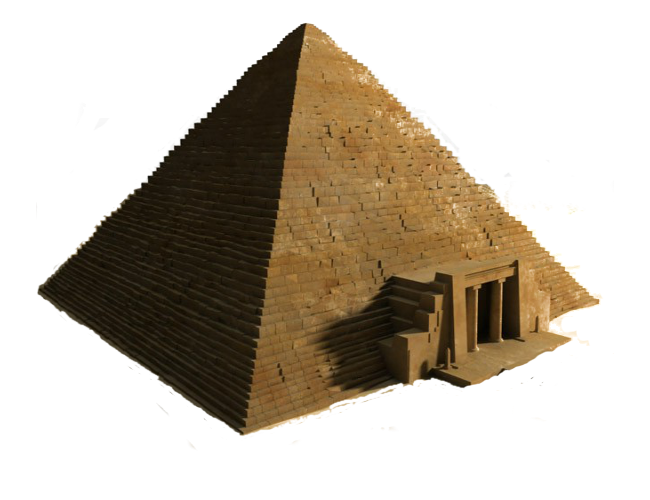
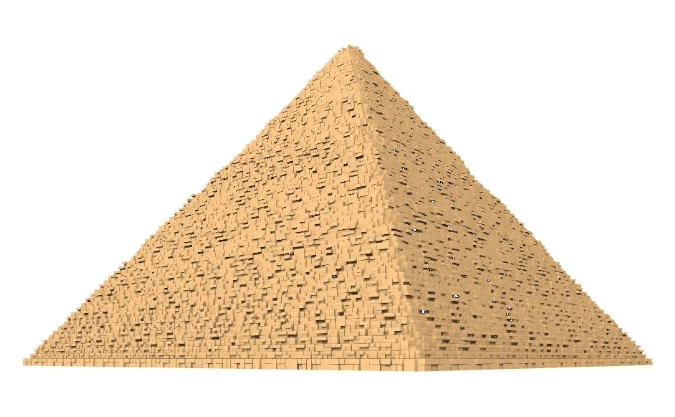
improving Desert Map

diff --git a/src/MapPanel.java b/src/MapPanel.java
@@ -31,12 +31,12 @@ public class MapPanel extends JPanel {
 		_floor = new Img("images\\Desert\\SandFloor.jpg", 0, 0, 50, 50);
 		_rock = new Img("images\\Desert\\rock.png", 0, 0, 150, 150);
 		_water = new Img("images\\Desert\\water.jpg", 0, 0, 50, 50);
-		_pyramid = new Img("images\\Desert\\pyramid.png", 0, 0, 300, 300);
+		_pyramid = new Img("images\\Desert\\pyramid2.png", 0, 0, 300, 300);
 		_sphinx = new Img("images\\Desert\\sphinx.png", 0, 0, 200, 200);
-		_gate = new Img("images\\Desert\\gate.png", 0, 0, 100, 100);
+		_gate = new Img("images\\Desert\\gate.png", 0, 0, 500, 500);
 		_torch = new Img("images\\Desert\\torch.png", 0, 0, 200, 200);
-		_statu = new Img("images\\Desert\\statu.png", 0, 0, 100, 100);
-		_map = new Map(_line, _cols, "map\\Desert\\file2.xml");
+		_statu = new Img("images\\Desert\\statu.png", 0, 0, 150, 150);
+		_map = new Map(_line, _cols, "map\\Desert\\file1.xml");
 		
 		_map.get_map();
 	}

diff --git a/src/MapFrame.java b/src/MapFrame.java
@@ -24,11 +24,11 @@ public class MapFrame extends JFrame {
 		_mjp = new MapJunglePanel();
 		_msap = new MapSavanaPanel();
 
-		//add(_mp);
+		add(_mp);
 		//add(_msp);
 		//add(_mmp);
 		//add(_mcp);
-		add(_mjp);
+		//add(_mjp);
 		//add(_msap);
 		setDefaultCloseOperation(JFrame.EXIT_ON_CLOSE);
 		setSize(900, 700);

diff --git a/src/MapJunglePanel.java b/src/MapJunglePanel.java
@@ -50,6 +50,7 @@ public class MapJunglePanel extends JPanel {
 				clip.open(aip);
 				clip.start();
 				clip.loop(5);
+				clip.stop();
 			} catch (LineUnavailableException e) {
 				// TODO Auto-generated catch block
 				e.printStackTrace();
